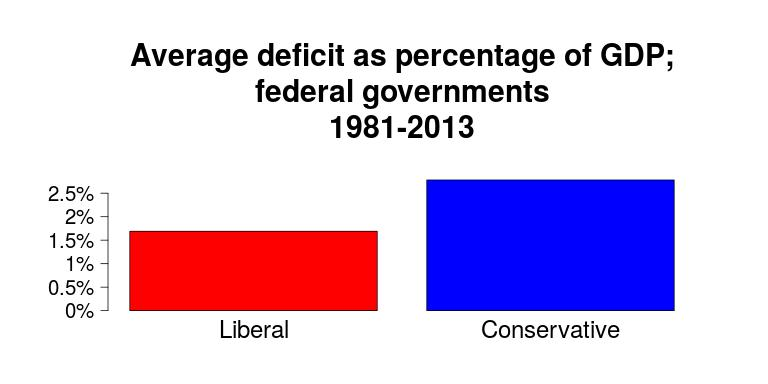
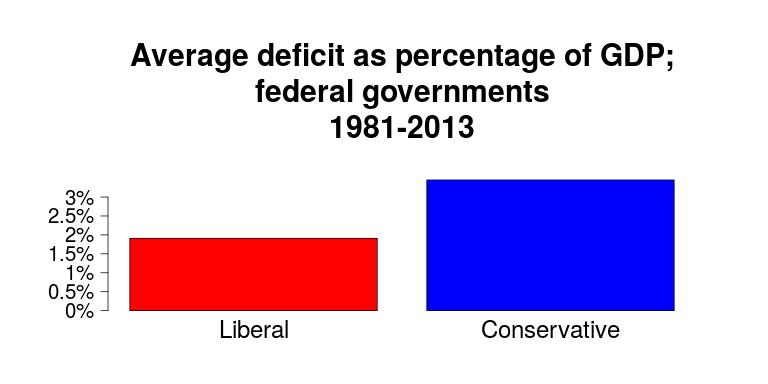
latest commit

Changed region(s): [[0.0625, 0.4688, 0.1562, 0.7812], [0.1562, 0.5938, 0.5, 0.625]]

diff --git a/README.md b/README.md
@@ -91,53 +91,60 @@ If you like graphs less, here's the same data in table form:
   <td>Avg. Budget Balance / GDP (%)</td>
  </tr>
  <tr>
+  <td>Party</td>
+  <td>Years</td>
+  <td>Surplus</td>
+  <td>Deficit</td>
+  <td>Mean.BB.GDP.Percent</td>
+ </tr>
+ <tr>
   <td>Conservative</td>
   <td>148.45</td>
   <td>54.24</td>
   <td>94.21</td>
-  <td>-0.59</td>
+  <td>-0.81</td>
  </tr>
  <tr>
   <td>Social Credit</td>
   <td>10.87</td>
   <td>2</td>
   <td>8.87</td>
-  <td>-0.85</td>
+  <td>-1.13</td>
  </tr>
  <tr>
   <td>NDP</td>
-  <td>71.70</td>
+  <td>71.7</td>
   <td>30.85</td>
   <td>40.84</td>
-  <td>-0.25</td>
+  <td>-0.46</td>
  </tr>
  <tr>
   <td>Liberal</td>
   <td>99.99</td>
   <td>18.84</td>
   <td>80.16</td>
-  <td>-0.94</td>
+  <td>-1.13</td>
  </tr>
  <tr>
   <td>Québec</td>
   <td>14.84</td>
   <td>3</td>
   <td>11.84</td>
-  <td>-1.22</td>
+  <td>-1.47</td>
  </tr>
  <tr>
   <td>Saskatchewan</td>
   <td>6.08</td>
   <td>5.08</td>
   <td>1</td>
-  <td>0.49</td>
+  <td>0.82</td>
  </tr>
  <tr>
   <td>Yukon</td>
   <td>11.08</td>
   <td>9</td>
   <td>2.08</td>
-  <td>0.95</td>
+  <td>1.33</td>
  </tr>
 </table>
 
@@ -164,18 +171,25 @@ there time done much better fiscally both with more relative surpluses as well a
   <td>Avg. Budget Balance / GDP (%)</td>
  </tr>
  <tr>
+  <td>Party</td>
+  <td>Years</td>
+  <td>Surplus</td>
+  <td>Deficit</td>
+  <td>Mean.BB.GDP.Percent</td>
+ </tr>
+ <tr>
   <td>Liberal</td>
   <td>16.01</td>
   <td>9.15</td>
   <td>6.86</td>
-  <td>-1.69</td>
+  <td>-1.91</td>
  </tr>
  <tr>
   <td>Conservative</td>
   <td>16.99</td>
   <td>1.85</td>
   <td>15.14</td>
-  <td>-2.78</td>
+  <td>-3.45</td>
  </tr>
 </table>
 
@@ -202,53 +216,60 @@ Regardless, even with this consideration, the data reveals the same relationship
   <td>Avg. Budget Balance / GDP (%)</td>
  </tr>
  <tr>
+  <td>Party</td>
+  <td>Years</td>
+  <td>Surplus</td>
+  <td>Deficit</td>
+  <td>Mean.BB.GDP.Percent</td>
+ </tr>
+ <tr>
   <td>Liberal</td>
-  <td>116.00</td>
+  <td>116</td>
   <td>27.98</td>
   <td>87.02</td>
-  <td>-1.04</td>
+  <td>-1.24</td>
  </tr>
  <tr>
   <td>Conservative</td>
   <td>165.44</td>
   <td>56.09</td>
   <td>109.35</td>
-  <td>-0.81</td>
+  <td>-1.08</td>
  </tr>
  <tr>
   <td>Social Credit</td>
   <td>10.87</td>
   <td>2</td>
   <td>8.87</td>
-  <td>-0.85</td>
+  <td>-1.13</td>
  </tr>
  <tr>
   <td>NDP</td>
-  <td>71.70</td>
+  <td>71.7</td>
   <td>30.85</td>
   <td>40.84</td>
-  <td>-0.25</td>
+  <td>-0.46</td>
  </tr>
  <tr>
   <td>Québec</td>
   <td>14.84</td>
   <td>3</td>
   <td>11.84</td>
-  <td>-1.22</td>
+  <td>-1.47</td>
  </tr>
  <tr>
   <td>Saskatchewan</td>
   <td>6.08</td>
   <td>5.08</td>
   <td>1</td>
-  <td>0.49</td>
+  <td>0.82</td>
  </tr>
  <tr>
   <td>Yukon</td>
   <td>11.08</td>
   <td>9</td>
   <td>2.08</td>
-  <td>0.95</td>
+  <td>1.33</td>
  </tr>
 </table>
 
@@ -276,8 +297,8 @@ of years of NDP:
   <td>prov/terr</td>
   <td>73.35</td>
   <td>9.45</td>
-  <td>63.90</td>
-  <td>-1.55</td>
+  <td>63.9</td>
+  <td>-1.97</td>
  </tr>
  <tr>
   <td>Liberal</td>
@@ -285,7 +306,7 @@ of years of NDP:
   <td>74.27</td>
   <td>16.84</td>
   <td>56.44</td>
-  <td>-0.94</td>
+  <td>-1.13</td>
  </tr>
  <tr>
   <td>Conservative</td>
@@ -293,7 +314,7 @@ of years of NDP:
   <td>75.12</td>
   <td>9.45</td>
   <td>65.67</td>
-  <td>-1.75</td>
+  <td>-2.27</td>
  </tr>
  <tr>
   <td>Liberal</td>
@@ -301,7 +322,7 @@ of years of NDP:
   <td>74.41</td>
   <td>12.62</td>
   <td>60.78</td>
-  <td>-1.42</td>
+  <td>-1.69</td>
  </tr>
 </table>
 
